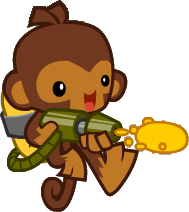
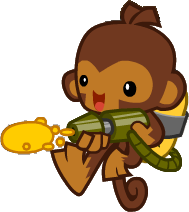
Mirrored gluemonkey and glue.

diff --git a/Seizures/GlueMonkey.java b/Seizures/GlueMonkey.java
@@ -12,6 +12,11 @@ public class GlueMonkey extends Actor
      * Act - do whatever the GlueMonkey wants to do. This method is called whenever
      * the 'Act' or 'Run' button gets pressed in the environment.
      */
+    public GlueMonkey()
+    {
+     GreenfootImage rescale = getImage();
+     rescale.scale(31, 35);
+    }
     int dir;
     public void act() 
     {
